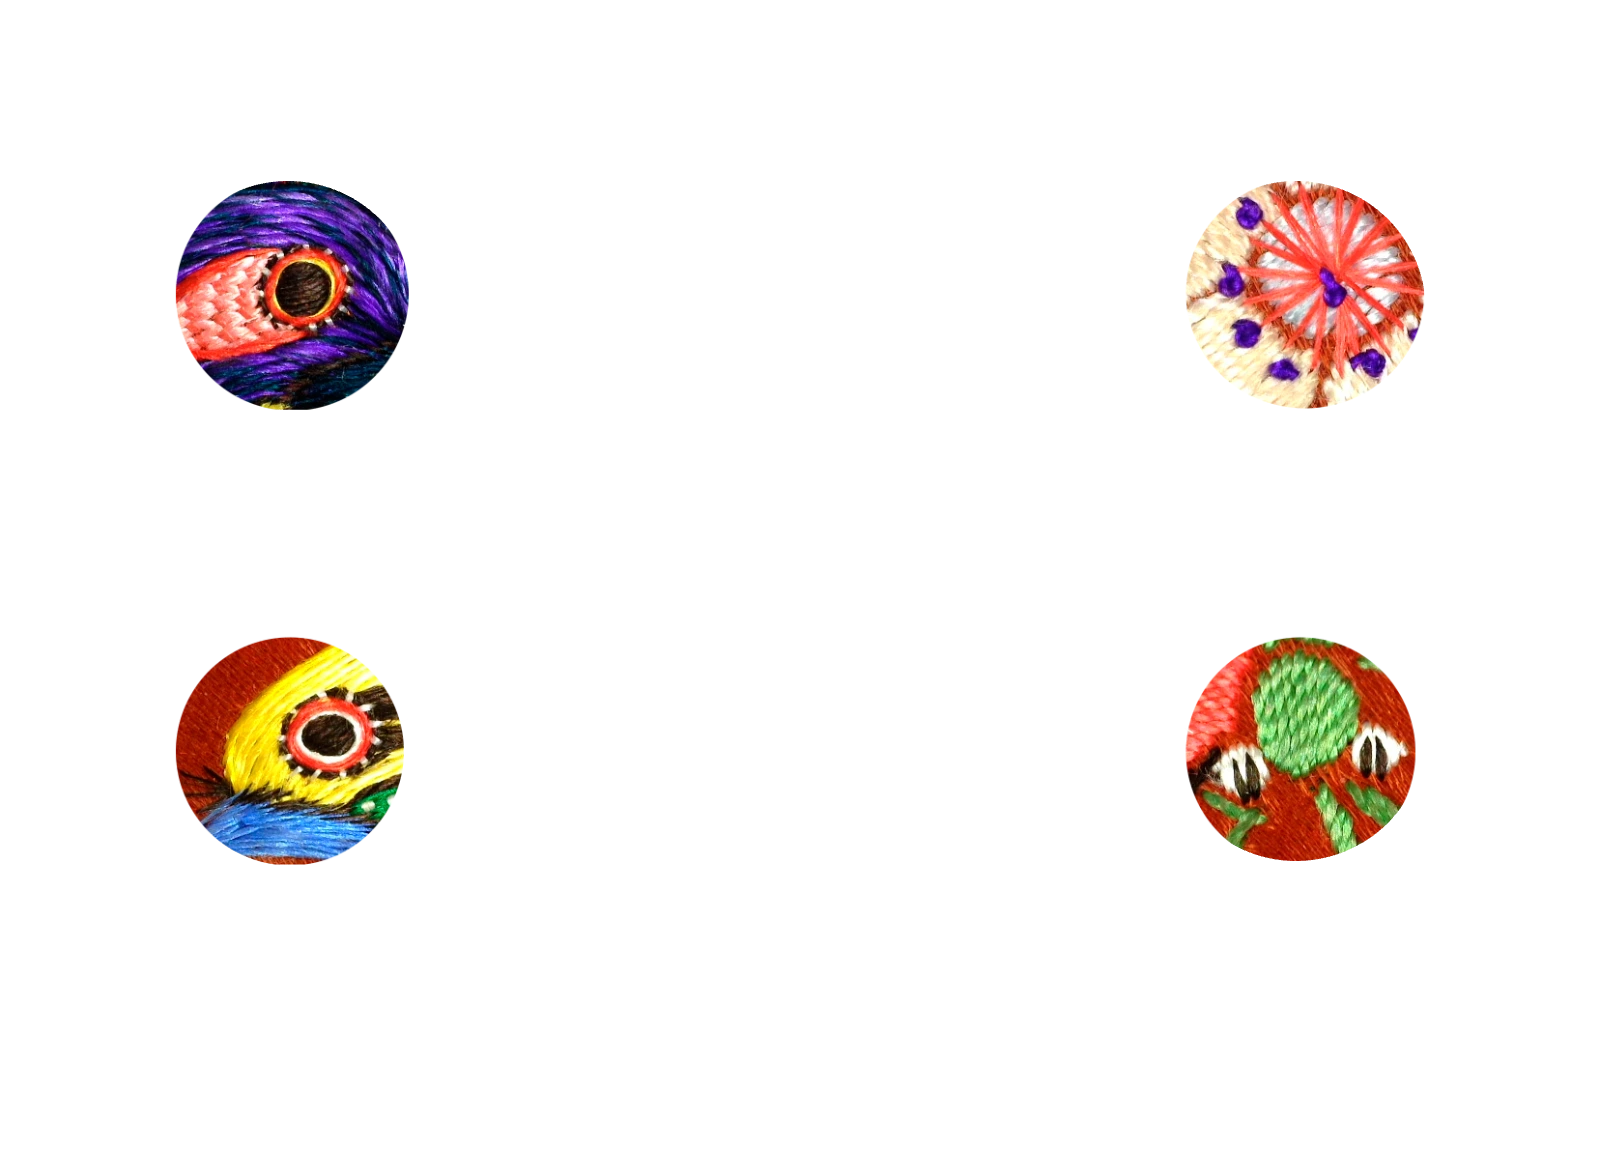
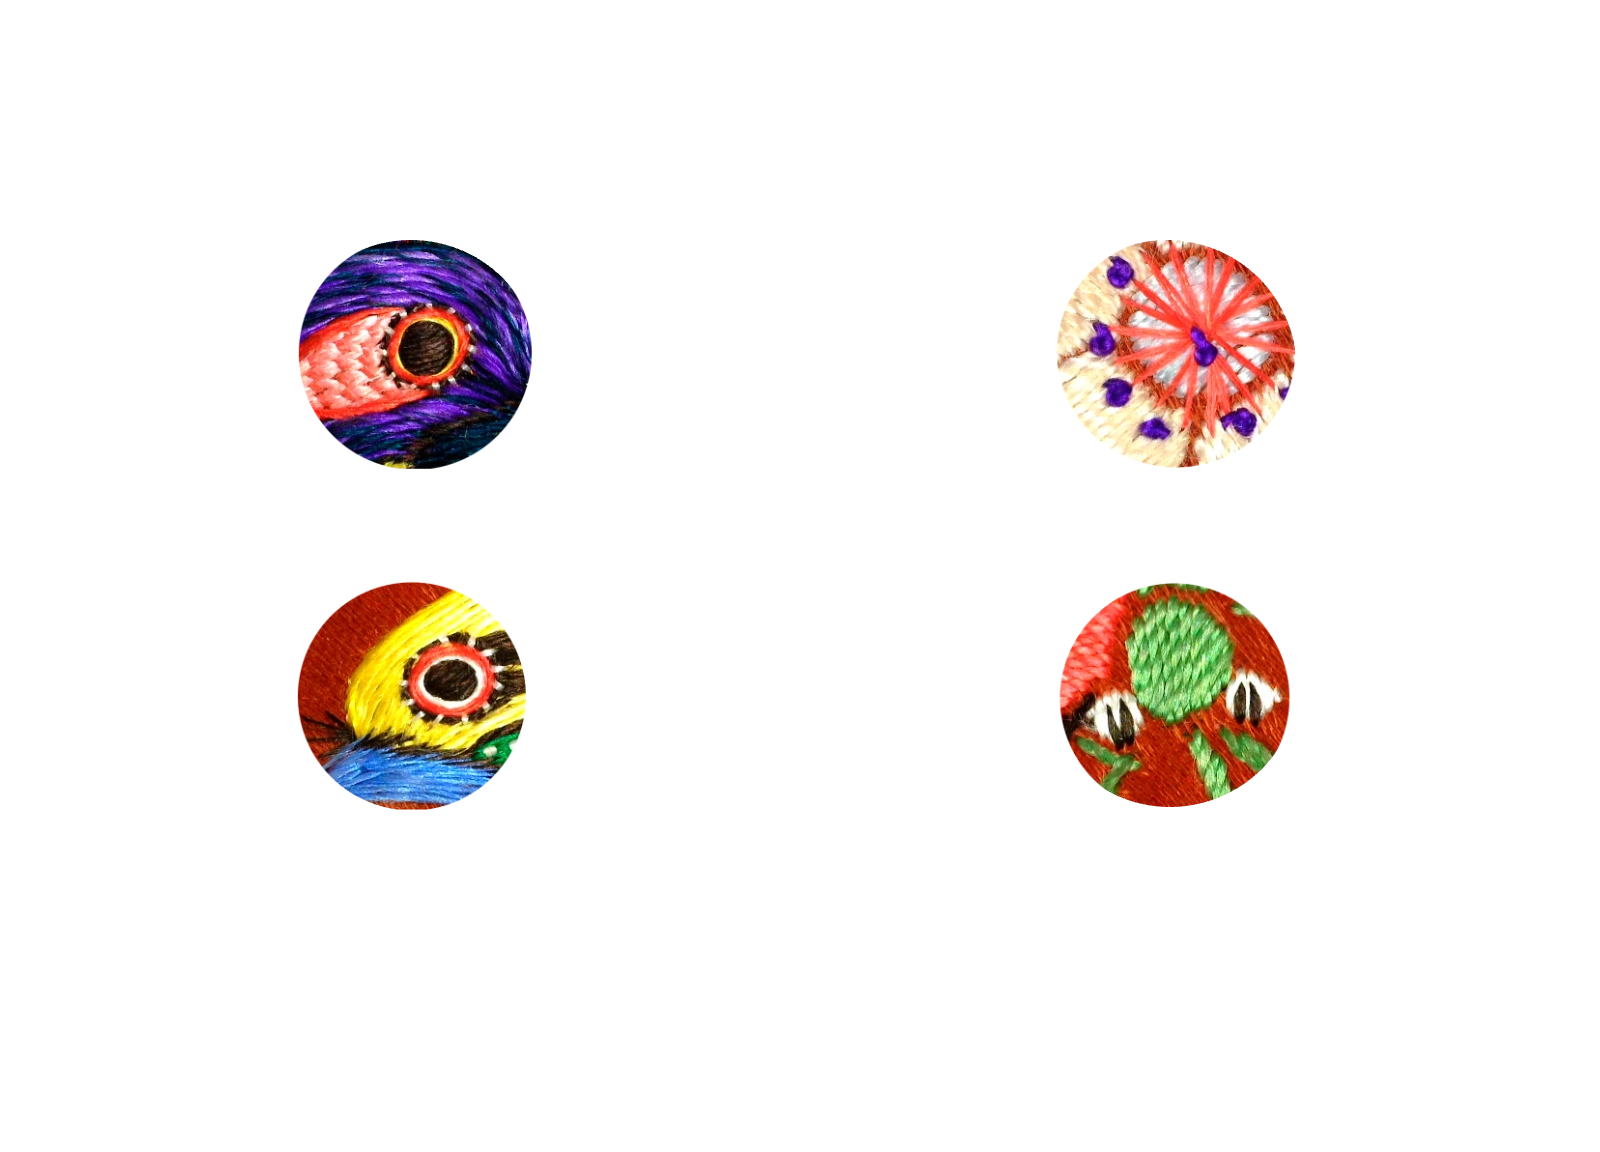
Palio de Filipinas: las 4 microscopias se agrupan alrededor del medallon
El museo avisa que las microscopias estaban "muy alejadas": los 4 circulos
venian casi en las esquinas del manton, asi que en el celular no entraban en
el mismo encuadre que el medallon y el de arriba a la derecha caia ya sobre la
pared, fuera de la tela.

En el propio micro-manton.webp cada circulo se acerco al centro del medallon
al 75% de su distancia anterior. Probe 85/75/65%: a 65% los dos de la derecha
ya pisan el anillo del medallon (que es justo lo que muestra el modo UV), asi
que 75% es lo mas cerca que se puede llegar sin taparlo.

Son los MISMOS pixeles, solo trasladados: se recorto la caja de cada circulo
(con su halo transparente) y se pego con traslacion entera, guardando webp
lossless con exact=True para que libwebp no toque el RGB de los pixeles
transparentes -- si no, el filtrado bilineal de la textura le mancha el borde.
Verificado byte a byte: las 4 cajas identicas, 0 pixeles distintos fuera de
ellas y el titulo "MICROSCOPIA / 10x de aumento" intacto donde estaba.
Los 4 circulos siguen dentro del rectangulo de la tela (bounds del config).

Sube el ?v= de la capa (3 -> 4) porque si no el celular sigue mostrando la
imagen vieja de cache.

diff --git a/Palio_de_Filipinas/config.js b/Palio_de_Filipinas/config.js
@@ -27,7 +27,14 @@ window.MUSEO_CONFIG = {
   mantonReg:   { x: -0.036, y: -0.024, size: 0.959, rot: 0.0419 },   // solo UV
   microReg:    { x: -0.028, y: 0.024, size: 1, rot: -0.0209 },      // microscopía (ajustada a mano)
   uvManton:    { src: "assets/uv-manton.webp",    aspect: 1.389 },
-  microManton: { src: "assets/micro-manton.webp?v=3", aspect: 1.389 },
+  // Los 4 círculos venían casi en las esquinas: en el celular quedaban lejísimos
+  // del medallón (el de arriba a la derecha caía ya sobre la pared). En el propio
+  // webp se acercaron al centro al 75% de su distancia al medallón — más cerca ya
+  // le pisan el anillo. Es el MISMO recorte de cada círculo, solo trasladado
+  // (traslación entera, webp lossless): centros 1600x1152 (296,296)/(1305,295)/
+  // (300,751)/(1291,749) → (419,354)/(1176,354)/(422,696)/(1165,694). El título
+  // "MICROSCOPÍA / 10x de aumento" se quedó donde estaba.
+  microManton: { src: "assets/micro-manton.webp?v=4", aspect: 1.389 },
 
   // RECTÁNGULO DE LA TELA dentro del marcador. Ningún bicho puede salir de aquí
   // (el motor recorta posición y amplitud de revoloteo contra esta caja).
